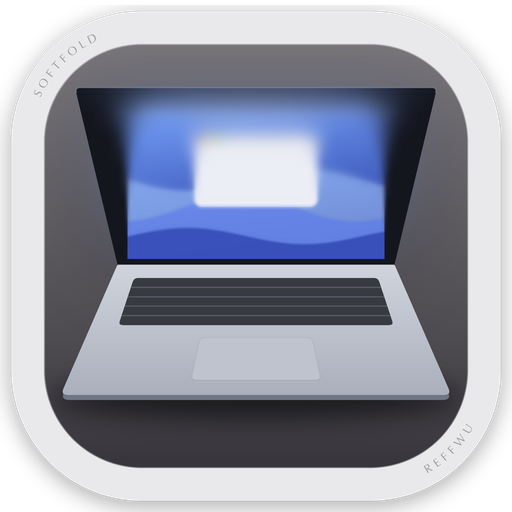
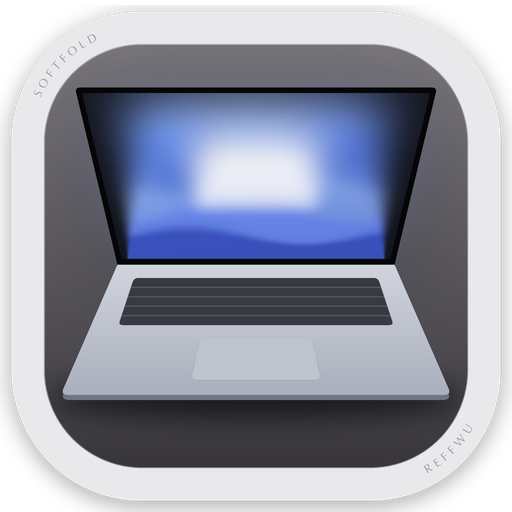
Frame the laptop screen with a black bezel and let the blur fade all the way down

Changed region(s): [[0.1562, 0.1562, 0.8438, 0.4688], [0.3438, 0.25, 0.6562, 0.4375]]

diff --git a/scripts/make-icon.py b/scripts/make-icon.py
@@ -30,6 +30,7 @@ BACK = (470, 1578)
 FRONT_Y = 1580
 FRONT = (242, 1806)
 THICKNESS = 20
+BEZEL = 22
 LID = [(300, LID_TOP), (1748, LID_TOP), (BACK[1], HINGE_Y), (BACK[0], HINGE_Y)]
 SCREEN = (BACK[0] + 40, LID_TOP + 34, BACK[1] - 40, HINGE_Y - 22)
 DECK = [
@@ -137,27 +138,53 @@ def wallpaper(width, height):
     return image
 
 
-def progressive_blur(image, radius, fade, start, end):
-    steps = [0, 0.06, 0.15, 0.3, 0.55, 1.0]
+def progressive_blur(image, radius, start, end):
+    radii = [0, 3, 6, 10, 16, 24, 34, 46, 60, 76, 94, 114, 136]
+    radii = [value for value in radii if value < radius] + [radius]
     levels = [
         np.asarray(
-            image
-            if step == 0
-            else image.filter(ImageFilter.GaussianBlur(radius * step))
+            image if value == 0 else image.filter(ImageFilter.GaussianBlur(value))
         ).astype(float)
-        for step in steps
+        for value in radii
     ]
     result = levels[0].copy()
     for row in range(start, end):
         progress = (row - start) / (end - start)
-        strength = np.clip(1 - progress / fade, 0, 1) ** 1.3 * (len(steps) - 1)
-        level = int(strength)
-        if level >= len(steps) - 1:
-            result[row] = levels[-1][row]
-            continue
-        blend = strength - level
-        result[row] = levels[level][row] * (1 - blend) + levels[level + 1][row] * blend
+        target = radius * (1 - progress) ** 1.25
+        upper = next(index for index, value in enumerate(radii) if value >= target)
+        lower = max(upper - 1, 0)
+        span = radii[upper] - radii[lower]
+        blend = 0 if span == 0 else (target - radii[lower]) / span
+        result[row] = levels[lower][row] * (1 - blend) + levels[upper][row] * blend
     return Image.fromarray(result.astype(np.uint8))
+
+
+def inset(points, distance):
+    lines = []
+    for index, start in enumerate(points):
+        end = points[(index + 1) % len(points)]
+        dx, dy = end[0] - start[0], end[1] - start[1]
+        length = math.hypot(dx, dy)
+        nx, ny = -dy / length, dx / length
+        lines.append(
+            (
+                (start[0] + nx * distance, start[1] + ny * distance),
+                (end[0] + nx * distance, end[1] + ny * distance),
+            )
+        )
+    corners = []
+    for index, (first, second) in enumerate(zip(lines[-1:] + lines[:-1], lines)):
+        (x1, y1), (x2, y2) = first
+        (x3, y3), (x4, y4) = second
+        denominator = (x1 - x2) * (y3 - y4) - (y1 - y2) * (x3 - x4)
+        cross = x1 * y2 - y1 * x2, x3 * y4 - y3 * x4
+        corners.append(
+            (
+                (cross[0] * (x3 - x4) - (x1 - x2) * cross[1]) / denominator,
+                (cross[0] * (y3 - y4) - (y1 - y2) * cross[1]) / denominator,
+            )
+        )
+    return corners
 
 
 def laptop():
@@ -211,13 +238,16 @@ def laptop():
 
     lid = Image.new("RGBA", (SIZE, SIZE), (20, 22, 30, 255))
     lid.paste(wallpaper(SCREEN[2] - SCREEN[0], SCREEN[3] - SCREEN[1]), SCREEN[:2])
-    lid = progressive_blur(lid.convert("RGB"), 115, 0.9, LID_TOP, HINGE_Y)
-    lid_shape = rounded(LID, [22, 22, 6, 6])
-    canvas = Image.alpha_composite(canvas, fill(lid, polygon_mask(lid_shape)))
-    edge = blank()
-    top_edge = [point for point in lid_shape if point[1] < HINGE_Y - 8]
-    ImageDraw.Draw(edge).line(top_edge, fill=(150, 156, 172, 120), width=5)
-    return Image.alpha_composite(canvas, edge)
+    lid = progressive_blur(lid.convert("RGB"), 120, LID_TOP, HINGE_Y)
+    lid_mask = polygon_mask(rounded(LID, [22, 22, 6, 6]))
+    canvas = Image.alpha_composite(canvas, fill(lid, lid_mask))
+    glass = polygon_mask(rounded(inset(LID, BEZEL), [12, 12, 4, 4]))
+    ring = Image.fromarray(
+        (np.asarray(lid_mask, int) * (255 - np.asarray(glass, int)) // 255).astype(
+            np.uint8
+        )
+    )
+    return Image.alpha_composite(canvas, fill((6, 6, 8, 255), ring))
 
 
 def ring_point(distance, box, radius):
